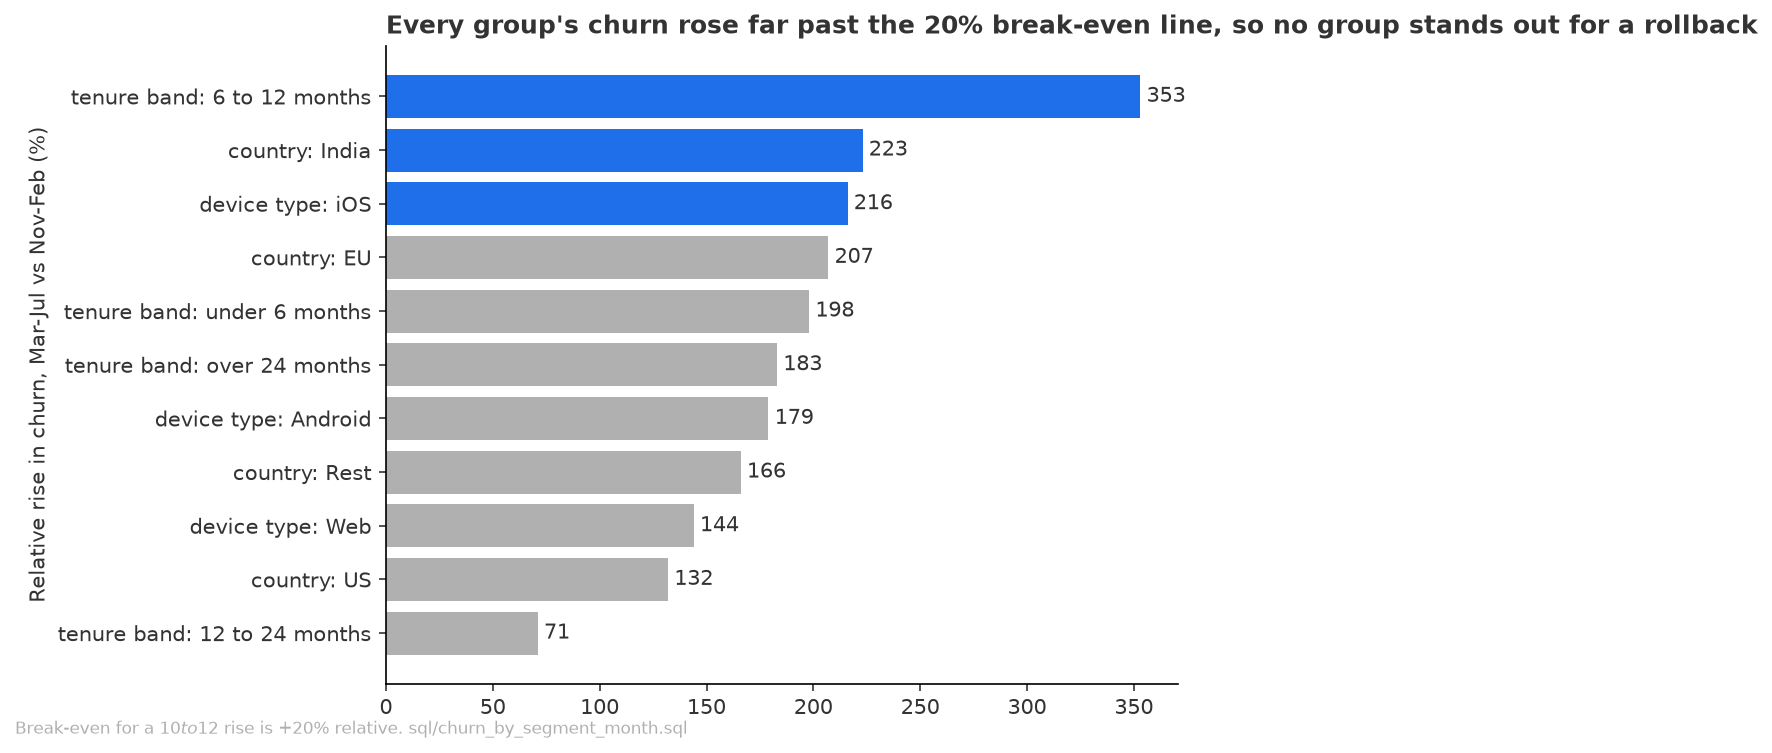
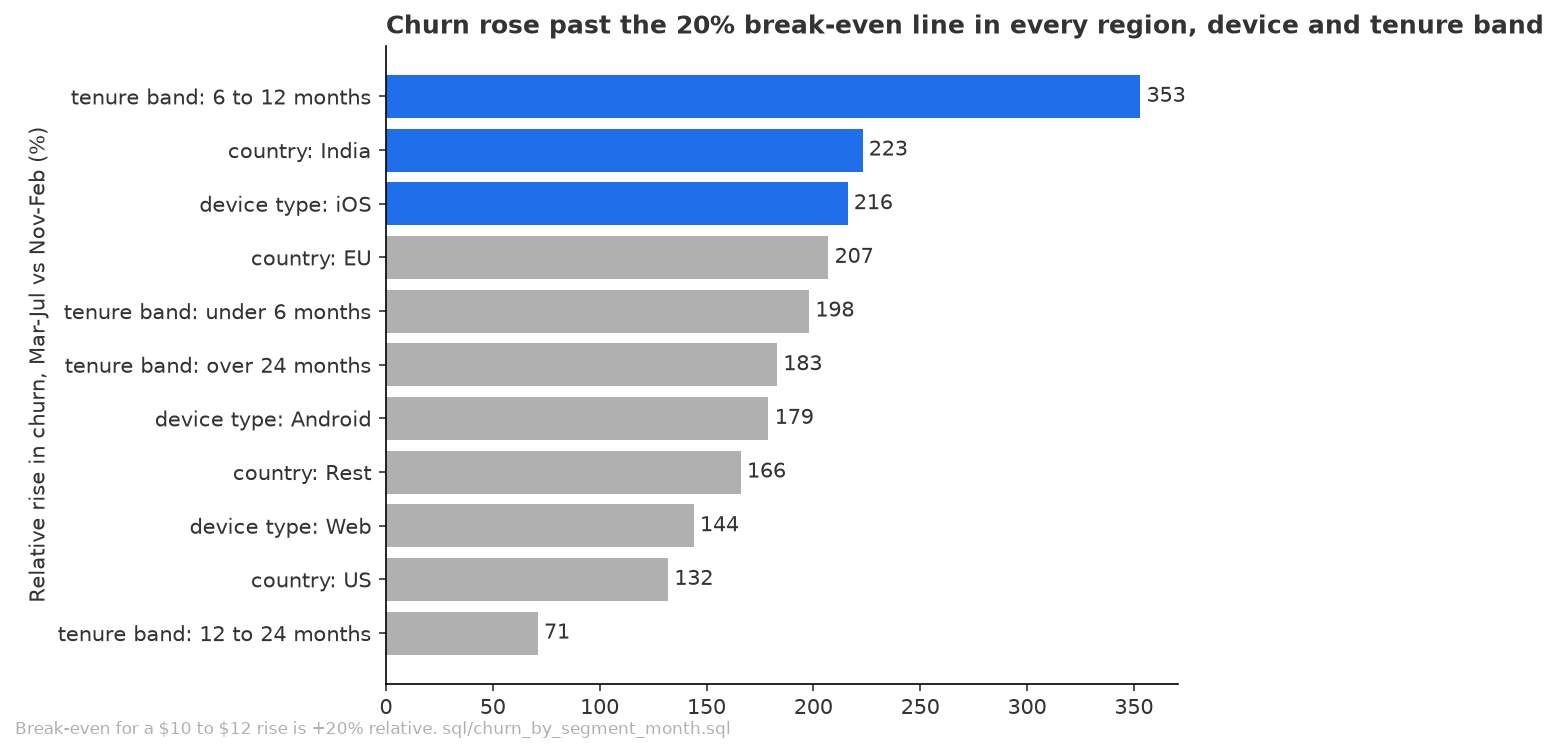
Validate round 1 fixes: start cohort split, observed revenue, new-start money for a year, chart text

diff --git a/outputs/2026-11-17_price-increase-retention/analysis.py b/outputs/2026-11-17_price-increase-retention/analysis.py
@@ -98,6 +98,7 @@ starts = read("new_paid_starts_by_month")
 gaps = pd.read_csv(DATA / "check_payment_gap_stability.csv")
 joins = pd.read_csv(DATA / "check_joins_and_edges.csv").iloc[0]
 totals = pd.read_csv(DATA / "check_csv_totals.csv").iloc[0]
+cohorts = read("churn_by_start_quarter_month")
 print(f"Analysis date: {analysis_date[:10]}")
 
 by_month["window"] = by_month["due_month"].map(window)
@@ -117,6 +118,9 @@ for dim, part in seg.groupby("dimension"):
     r = parts_sum_to_total(part["renewals_due"], organic_existing["renewals_due"].sum(), tolerance=0)
     m = parts_sum_to_total(part["missed_renewals"], organic_existing["missed_renewals"].sum(), tolerance=0)
     check(f"segments_sum_{dim}", r["ok"] and m["ok"], f"renewals: {r['summary']} Missed: {m['summary']}")
+r = parts_sum_to_total(cohorts["renewals_due"], organic_existing["renewals_due"].sum(), tolerance=0)
+m = parts_sum_to_total(cohorts["missed_renewals"], organic_existing["missed_renewals"].sum(), tolerance=0)
+check("segments_sum_start_quarter", r["ok"] and m["ok"], f"renewals: {r['summary']} Missed: {m['summary']}")
 
 monthly_prices = price[price["plan"] == "monthly"]
 wrong = monthly_prices[((monthly_prices["payment_month"] < "2026-03-01") & (monthly_prices["amount_usd"] != OLD_PRICE))
@@ -174,8 +178,80 @@ for (dim, s), part in seg.groupby(["dimension", "segment"]):
 segments = pd.DataFrame(seg_rows)
 segments.to_csv(DATA / "churn_by_segment.csv", index=False)
 
+# ---------------------------------------------------------------- start cohorts (organic existing), review A2 and A3
+def cohort_group(q):
+    if q < "2024-Q1":
+        return "started 2022 to 2023"
+    if q <= "2025-Q1":
+        return "started Jan 2024 to Mar 2025"
+    return "started Apr 2025 to Feb 2026"
+
+
+GROUP_ORDER = ["started 2022 to 2023", "started Jan 2024 to Mar 2025", "started Apr 2025 to Feb 2026"]
+cohorts["window"] = cohorts["due_month"].map(window)
+cohorts["cohort_group"] = cohorts["start_quarter"].map(cohort_group)
+
+quarter_rows = []
+for q, part in cohorts.groupby("start_quarter"):
+    b, a = part[part["window"] == "before"], part[part["window"] == "after"]
+    if b.empty or a.empty:
+        continue
+    row = compare(b["renewals_due"].sum(), b["missed_renewals"].sum(), a["renewals_due"].sum(), a["missed_renewals"].sum())
+    quarter_rows.append({"start_quarter": q, "cohort_group": cohort_group(q), **row,
+                         "big_enough": min(row["renewals_before"], row["renewals_after"]) >= MIN_RENEWALS})
+pd.DataFrame(quarter_rows).to_csv(DATA / "churn_by_start_quarter.csv", index=False)
+
+
+def observed_vs_counterfactual(monthly_rows, churn_before):
+    """Revenue actually collected Mar-Jul at $12 against the same base at $10 with the before churn rate.
+
+    Paid renewals each month are scaled by the ratio of counterfactual to observed survival since March.
+    """
+    after = monthly_rows[monthly_rows["due_month"] >= "2026-03-01"].sort_values("due_month")
+    paid = after["renewals_due"] - after["missed_renewals"]
+    observed_survival = (1 - after["missed_renewals"] / after["renewals_due"]).cumprod()
+    cf_survival = pd.Series([(1 - churn_before) ** (k + 1) for k in range(len(after))], index=after.index)
+    observed = float((paid * NEW_PRICE).sum())
+    counterfactual = float((paid * cf_survival / observed_survival * OLD_PRICE).sum())
+    return observed, counterfactual
+
+
+group_rows, held_rows = [], []
+group_frames = [(g, cohorts[cohorts["cohort_group"] == g].groupby("due_month", as_index=False)[
+    ["renewals_due", "missed_renewals"]].sum()) for g in GROUP_ORDER]
+group_frames.append(("all organic existing", organic_existing.groupby("due_month", as_index=False)[
+    ["renewals_due", "missed_renewals"]].sum()))
+for g, gm in group_frames:
+    b, a = gm[gm["due_month"] < "2026-03-01"], gm[gm["due_month"] >= "2026-03-01"]
+    row = compare(b["renewals_due"].sum(), b["missed_renewals"].sum(), a["renewals_due"].sum(), a["missed_renewals"].sum())
+    late = gm[gm["due_month"] >= "2026-04-01"]
+    late_rate = late["missed_renewals"].sum() / late["renewals_due"].sum()
+    size = int(gm.loc[gm["due_month"] == "2026-07-01", "renewals_due"].sum())
+    obs, cf = observed_vs_counterfactual(gm, row["churn_before"])
+    group_rows.append({"cohort_group": g, **row, "churn_apr_jul": late_rate,
+                       "above_break_even": row["change_relative"] > BREAK_EVEN_REL,
+                       **money(row["churn_before"], row["churn_after"], size),
+                       **{f"apr_jul_{k}": v for k, v in money(row["churn_before"], late_rate, size).items()
+                          if k in ("gain_12m_per_subscriber", "gain_12m_group", "months_until_12_falls_behind")},
+                       "observed_revenue_mar_jul_at_12": obs, "counterfactual_revenue_mar_jul_at_10": cf,
+                       "observed_gain_mar_jul": obs - cf})
+    for _, mrow in a.iterrows():
+        rate = mrow["missed_renewals"] / mrow["renewals_due"]
+        held_rows.append({"cohort_group": g, "due_month": mrow["due_month"].date(), "renewals_due": mrow["renewals_due"],
+                          "churn_rate": rate, "churn_before": row["churn_before"],
+                          "above_break_even": rate / row["churn_before"] - 1 > BREAK_EVEN_REL})
+cohort_summary = pd.DataFrame(group_rows)
+cohort_summary.to_csv(DATA / "churn_by_cohort_group.csv", index=False)
+held = pd.DataFrame(held_rows)
+held.to_csv(DATA / "churn_after_by_month_cohort_group.csv", index=False)
+
 # ---------------------------------------------------------------- new starts at the same renewal number
 ns = new_starts.assign(churn_rate=new_starts["missed_renewals"] / new_starts["renewals_due"])
+ns_se = (ns["churn_rate"] * (1 - ns["churn_rate"]) / ns["renewals_due"]) ** 0.5
+ns["ci_low"] = (ns["churn_rate"] - Z * ns_se).clip(lower=0)
+ns["ci_high"] = ns["churn_rate"] + Z * ns_se
+ns["due_months"] = ns["cohort"].map({"starts_nov25_jan26_at_10": "Dec 2025 to Feb 2026",
+                                     "starts_mar26_jun26_at_12": "Apr to Jul 2026"})
 ns.to_csv(DATA / "new_start_churn_rate_by_renewal.csv", index=False)
 before_ns = ns[ns["cohort"] == "starts_nov25_jan26_at_10"].set_index("renewal_number")
 after_ns = ns[ns["cohort"] == "starts_mar26_jun26_at_12"].set_index("renewal_number")
@@ -196,6 +272,9 @@ new_start_summary = pd.DataFrame([{
     "change_relative_standardised": ns_after_rate / ns_before_rate - 1,
     "above_break_even": ns_after_rate / ns_before_rate - 1 > BREAK_EVEN_REL,
     **money(ns_before_rate, ns_after_rate, avg_new_monthly_starts),
+    "new_monthly_starts_per_year": avg_new_monthly_starts * 12,
+    "gain_12m_year_of_starts": money(ns_before_rate, ns_after_rate, 1)["gain_12m_per_subscriber"] * avg_new_monthly_starts * 12,
+    "season_note": "renewals at $10 fell due Dec 2025 to Feb 2026, at $12 Apr to Jul 2026; season is not controlled",
 }])
 new_start_summary.to_csv(DATA / "new_start_summary.csv", index=False)
 
@@ -242,7 +321,7 @@ oe_m = monthly[(monthly["customer_type"] == "existing") & (monthly["block_flag"]
 labels = oe_m["due_month"].dt.strftime("%b %y")
 charts.save(charts.line(
     labels, {"Existing subscribers": (oe_m["churn_rate"] * 100).round(2)},
-    "Churn at renewal rose from about 1.3% to 3-5% a month once renewals followed a $12 charge",
+    r"Churn at renewal rose from about 1.3% to 3-5% a month once renewals followed a \$12 charge",
     highlight="Existing subscribers", ylabel="Missed renewals, % of renewals due",
     source="Organic existing monthly subscribers, renewals due Nov 2025 to Jul 2026. sql/churn_by_due_month.sql"),
     CHARTS / "churn_by_due_month.png")
@@ -251,26 +330,41 @@ s = segments.assign(name=segments["dimension"].str.replace("_", " ") + ": " + se
 s = s.sort_values("change_relative", ascending=False)
 charts.save(charts.bar(
     s["name"], (s["change_relative"] * 100).round(0),
-    "Every group's churn rose far past the 20% break-even line, so no group stands out for a rollback",
+    "Churn rose past the 20% break-even line in every region, device and tenure band",
     highlight=list(s["name"].head(3)), ylabel="Relative rise in churn, Mar-Jul vs Nov-Feb (%)", horizontal=True,
-    source="Break-even for a $10 to $12 rise is +20% relative. sql/churn_by_segment_month.sql"),
+    source=r"Break-even for a \$10 to \$12 rise is +20% relative. sql/churn_by_segment_month.sql"),
     CHARTS / "churn_rise_by_segment.png")
+
+hm = held[held["cohort_group"] != "all organic existing"].copy()
+cg_lines = {}
+for g in GROUP_ORDER:
+    gm = [x for name, x in group_frames if name == g][0].sort_values("due_month")
+    cg_lines[g] = (gm["missed_renewals"] / gm["renewals_due"] * 100).round(2).values
+cg_x = [x for name, x in group_frames if name == GROUP_ORDER[0]][0].sort_values("due_month")["due_month"].dt.strftime("%b %y")
+flat = cohort_summary.set_index("cohort_group").loc["started Jan 2024 to Mar 2025"]
+charts.save(charts.line(
+    cg_x, cg_lines,
+    f"Subscribers who started Jan 2024 to Mar 2025 kept churning about {flat['churn_after'] * 100:.1f}% a month; the rest rose",
+    highlight="started Jan 2024 to Mar 2025", ylabel="Missed renewals, % of renewals due",
+    source="Organic existing monthly subscribers by start date. sql/churn_by_start_quarter_month.sql"),
+    CHARTS / "churn_by_cohort_group.png")
 
 charts.save(charts.line(
     [f"Renewal {n}" for n in shared],
-    {"Started Nov-Jan at $10": (before_ns.loc[shared, "churn_rate"] * 100).round(1),
-     "Started Mar-Jun at $12": (after_ns.loc[shared, "churn_rate"] * 100).round(1)},
-    "New subscribers who joined at $12 churn several times more at the same renewal",
-    highlight="Started Mar-Jun at $12", ylabel="Missed renewals, % of renewals due",
-    source="New monthly starts, no trial record. sql/new_start_churn_by_renewal.sql"),
+    {r"Started Nov-Jan at \$10": (before_ns.loc[shared, "churn_rate"] * 100).round(1),
+     r"Started Mar-Jun at \$12": (after_ns.loc[shared, "churn_rate"] * 100).round(1)},
+    r"New subscribers who joined at \$12 churn several times more at the same renewal",
+    highlight=r"Started Mar-Jun at \$12", ylabel="Missed renewals, % of renewals due",
+    source="New monthly starts, no trial record; renewals due in different seasons. sql/new_start_churn_by_renewal.sql"),
     CHARTS / "new_start_churn_by_renewal.png")
 
-charts.save(charts.line(
-    path["month"], {"$10 at old churn": path["at_10_old_churn"].round(1), "$12 at new churn": path["at_12_new_churn"].round(1)},
-    f"$12 earns more for about {money_rows[0]['months_until_12_falls_behind'] - 1} months, then falls behind $10 for good",
-    highlight="$12 at new churn", ylabel="Cumulative revenue per subscriber ($)",
-    source="Expected revenue per existing subscriber at steady churn. data/revenue_path_existing.csv"),
-    CHARTS / "revenue_path_existing.png")
+fig = charts.line(
+    path["month"], {r"\$10 at old churn": path["at_10_old_churn"].round(1), r"\$12 at new churn": path["at_12_new_churn"].round(1)},
+    rf"\$12 earns more for about {money_rows[0]['months_until_12_falls_behind'] - 1} months, then falls behind \$10 if churn stays this high",
+    highlight=r"\$12 at new churn", ylabel=r"Cumulative revenue per subscriber (\$)",
+    source="Expected revenue per existing subscriber at steady churn. data/revenue_path_existing.csv")
+fig.axes[0].set_xlabel("Months from now")
+charts.save(fig, CHARTS / "revenue_path_existing.png")
 
 # ---------------------------------------------------------------- report
 pd.set_option("display.width", 200)
@@ -280,9 +374,19 @@ print(headline[["group", "after_window", "churn_before", "churn_after", "change_
 print("\nSplits (organic existing, Nov-Feb vs Mar-Jul):")
 print(segments[["dimension", "segment", "churn_before", "churn_after", "change_pp", "change_relative", "big_enough",
                 "gain_12m_per_subscriber", "months_until_12_falls_behind"]].round(4).to_string(index=False))
-print("\nNew starts:")
+print("\nStart cohort groups (organic existing):")
+print(cohort_summary[["cohort_group", "churn_before", "churn_after", "churn_apr_jul", "change_pp", "change_pp_ci_low",
+                      "change_pp_ci_high", "change_relative", "group_size", "gain_12m_group", "apr_jul_gain_12m_group",
+                      "months_until_12_falls_behind", "observed_gain_mar_jul"]].round(4).to_string(index=False))
+print("\nAfter-window churn by month and cohort group:")
+print(held.pivot_table(index="due_month", columns="cohort_group", values="churn_rate").round(4).to_string())
+print("\nStart quarters:")
+print(pd.DataFrame(quarter_rows)[["start_quarter", "churn_before", "churn_after", "change_relative", "big_enough"]].round(4).to_string(index=False))
+print("\nNew starts by renewal number:")
+print(ns[["cohort", "renewal_number", "renewals_due", "churn_rate", "ci_low", "ci_high"]].round(4).to_string(index=False))
 print(new_start_summary[["churn_before_standardised", "churn_after_standardised", "change_relative_standardised",
-                         "gain_12m_per_subscriber", "months_until_12_falls_behind"]].round(4).to_string(index=False))
+                         "gain_12m_per_subscriber", "new_monthly_starts_per_year", "gain_12m_year_of_starts",
+                         "months_until_12_falls_behind"]].round(4).to_string(index=False))
 print("\nNew paid start mix:")
 print(mix_table.round(3).to_string(index=False))
 print("\nAnnual reference:")
